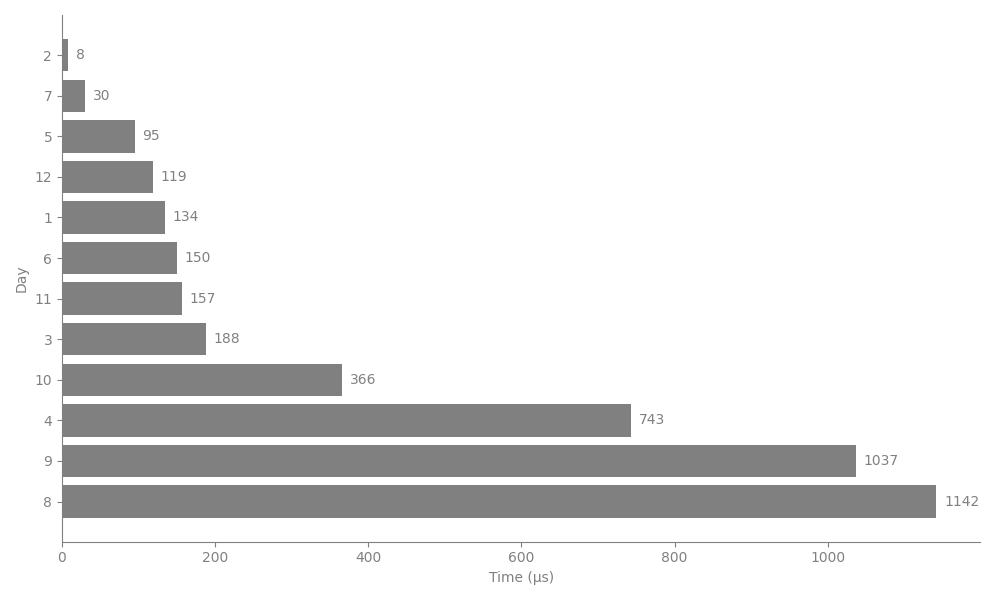
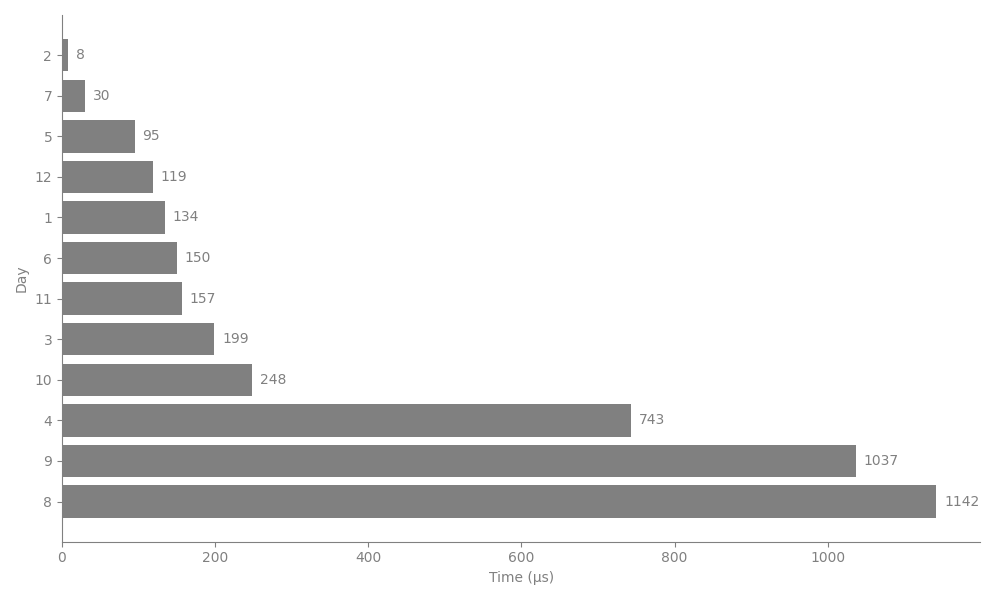
Restyle 25/10 and rebench ~4ms

Changed region(s): [[0.248, 0.6, 0.372, 0.66], [0.186, 0.54, 0.248, 0.6]]

diff --git a/2025/10/aoc10.go b/2025/10/aoc10.go
@@ -18,13 +18,12 @@ import (
 	"math"
 	"math/bits"
 	"os"
-	"slices"
 	"sync"
 	"time"
 	"unsafe"
 )
 
-const MaxSolver = 8 // number of parallel solvers -- sweet spot on M1
+var MaxSolver = 16 // number of parallel solvers -- sweet spot on M1
 
 // use this for dynamic max procs
 // var MaxSolver = runtime.GOMAXPROCS(0)
@@ -34,8 +33,8 @@ func main() {
 
 	var wg sync.WaitGroup // wait group for solvers
 
-	in := make(chan mach, 2*MaxSolver)   // input machines into solvers
-	out := make(chan parts, 2*MaxSolver) // output part results from solvers
+	in := make(chan mach, 4*MaxSolver)   // input machines into solvers
+	out := make(chan parts, 4*MaxSolver) // output part results from solvers
 
 	// each solver processes machines from the input channel for parts 1 and 2
 	solver := func() {
@@ -87,11 +86,18 @@ func part1(flips []int32, light int32) int32 {
 	flips = flips[:len(flips)-1] // remove bounding switch
 
 	// build bitmask BFS table
-	bmasks := slices.Repeat([]int32{math.MaxInt16}, 1<<w)
+	N := 1 << w
+
+	bmasks := make([]int32, N)
+	for i := range N {
+		bmasks[i] = math.MaxInt16
+	}
 	bmasks[0] = 0
 
 	// BFS over bitmasks
-	q := []int32{0}
+	q := make([]int32, 0, N)
+
+	q = append(q, 0)
 	for i := 0; i < len(q); i++ {
 		u := q[i]
 		for _, v := range flips {
@@ -101,12 +107,15 @@ func part1(flips []int32, light int32) int32 {
 				continue
 			}
 
-			bmasks[nxt] = bmasks[u] + 1
+			if bmasks[nxt] = bmasks[u] + 1; nxt == light {
+				return bmasks[light]
+			}
+
 			q = append(q, nxt)
 		}
 	}
 
-	return bmasks[light]
+	panic("unreached")
 }
 
 // Part 2 solves an integer linear system M x = rhs using a row-Hermite Normal Form.
@@ -124,23 +133,23 @@ func part2(flips []int32, jolts []int32) int32 {
 	m := len(jolts) // equations (cols)
 	n := len(flips) // variables (rows)
 
-	// M is the transpose of the usual matrix becaus we perform
+	// M is the transpose of the usual matrix because we perform
 	// row-HNF. Each row corresponds to a variable (flips),
-	M := new(mat)
+	var M mat
 	for i := range n {
 		for j := range m {
 			M[x(i, j)] = (flips[i] >> j) & 1
 		}
 	}
 
-	K := new(ker3)
+	var K ker3
 
 	// row-Hermite Normal Form
-	x, kdim := hnf(K, M, jolts, m, n) // base solution + kernel dimension
+	x, kdim := hnf(&K, &M, jolts, m, n) // base solution + kernel dimension
 
 	// base sum
 	var sumX int32
-	for i := range x {
+	for i := range n {
 		sumX += x[i]
 	}
 
@@ -149,35 +158,35 @@ func part2(flips []int32, jolts []int32) int32 {
 		return sumX
 	}
 
-	v0 := ρ(K[:], 0) // kernel basis vectors
-	sum0 := Σplus(v0)
+	k0 := ρ(K[:], 0) // kernel basis vectors
+	sum0 := Σplus(k0)
 
 	if kdim == 1 {
-		return sumX + min1D(x, v0)
+		return sumX + min1D(x, k0, n)
 	}
 
-	v1 := ρ(K[:], 1) // kernel basis vectors
-	sum1 := Σplus(v1)
+	k1 := ρ(K[:], 1) // kernel basis vectors
+	sum1 := Σplus(k1)
 
 	if sum0 < sum1 {
 		sum0, sum1 = sum1, sum0
-		swap(v0, v1)
+		swap(k0, k1)
 	}
 
 	if kdim == 2 {
-		return sumX + min2D(x, sum0, v0, sum1, v1, n, math.MaxInt16)
+		return sumX + min2D(x, sum0, k0, sum1, k1, n, math.MaxInt16)
 	}
 
-	v2 := ρ(K[:], 2) // kernel basis vectors
-	sum2 := Σplus(v2)
+	k2 := ρ(K[:], 2) // kernel basis vectors
+	sum2 := Σplus(k2)
 
 	if sum0 < sum2 {
 		sum0, sum2 = sum2, sum0
-		swap(v0, v2)
+		swap(k0, k2)
 	}
 
 	// no more than 3 free variables in the input
-	return sumX + min3D(x, sum0, v0, sum1, v1, sum2, v2, n)
+	return sumX + min3D(x, sum0, k0, sum1, k1, sum2, k2, n)
 }
 
 const (
@@ -188,7 +197,6 @@ const (
 // parse input into machines
 func parse(input *bufio.Scanner) iter.Seq[mach] {
 	return func(yield func(mach) bool) {
-
 		for input.Scan() {
 			buf := input.Bytes()
 			fields := bytes.Split(buf, []byte(" "))
@@ -261,30 +269,30 @@ type v16 [16]int32
 
 // min1D finds the minimum of the objective over a 1D integer affine subspace
 // subject to non-negativity and implicit feasibility constraints.
-func min1D(x *v16, v0 *v16) int32 {
+func min1D(x *v16, v0 *v16, n int) int32 {
 	var sum int32
 
-	for i := range v0 {
+	for i := range n {
 		sum += v0[i]
 	}
 
 	if sum > 0 {
 		sum = -sum
 
-		for i := range v0 {
+		for i := range n {
 			v0[i] *= -1
 		}
 	}
 
 	var negi uint16 // negative entries in v0
-	for i := range v0 {
+	for i := range n {
 		if v0[i] < 0 {
 			negi |= 1 << i
 		}
 	}
 
 	i := bits.TrailingZeros16(negi)
-	n, d := x[i], -v0[i] // first negative entry
+	a, b := x[i], -v0[i] // first negative entry
 	negi &= negi - 1     // clear lowest set bit
 
 	for negi != 0 {
@@ -292,14 +300,14 @@ func min1D(x *v16, v0 *v16) int32 {
 
 		v0i, xi := -v0[i], x[i]
 
-		if xi*d < n*v0i {
-			n, d = xi, v0i
+		if a*v0i > b*xi {
+			a, b = xi, v0i
 		}
 
 		negi &= negi - 1
 	}
 
-	return sum * fdiv(n, d)
+	return sum * fdiv(a, b)
 }
 
 // min2D performs a bounded search in a 2D kernel space.
@@ -346,20 +354,19 @@ func min2D(x *v16, sum0 int32, v0 *v16, sum1 int32, v1 *v16, n int, best int32) 
 	sm0 := min0*sum0 + min10*sum1
 	sm1 := min01*sum0 + min1*sum1
 
+	if min(sm0, sm1) >= best {
+		return best
+	}
+
 	if sm1 < sm0 {
-		if sm1 >= best {
-			return best
-		}
 		v0, v1 = v1, v0
 		sum0, sum1 = sum1, sum0
 		min0, min1 = min1, min0
 		min01, min10 = min10, min01
-	} else if sm0 >= best {
-		return best
 	}
 
-	var xx v16 = *x
-	x = &xx // work on a copy of x
+	var xx v16 = *x // working copy
+	x = &xx
 
 	for i := range n {
 		x[i] += min0*v0[i] + min10*v1[i]
@@ -403,31 +410,31 @@ func min2D(x *v16, sum0 int32, v0 *v16, sum1 int32, v1 *v16, n int, best int32) 
 		}
 
 		if negMask != 0 {
-			if negMask&lostMask != 0 {
+			switch {
+			case negMask&lostMask != 0:
 				return best
-			}
-
-			if negMask&addMask != 0 {
+			case negMask&addMask != 0:
 				k0++
 
-				for i := range x {
+				for i := range n {
 					x[i] += v0[i]
 				}
 
 				sum += sum0
-			} else {
+			default:
 				for i := range n {
 					x[i] -= v1[i]
 				}
 
 				sum -= sum1
 			}
+
 			continue
 		}
 
 		// subtract v1 until minimal
+		hasNeg = false
 		for {
-			hasNeg = false
 			for i := range n {
 				x[i] -= v1[i]
 
@@ -436,15 +443,16 @@ func min2D(x *v16, sum0 int32, v0 *v16, sum1 int32, v1 *v16, n int, best int32) 
 				}
 			}
 
-			if hasNeg {
-				// undo subtraction
-				for i := range n {
-					x[i] += v1[i]
-				}
-
-				break
+			if !hasNeg {
+				sum -= sum1
+				continue
 			}
-			sum -= sum1
+
+			for i := range n {
+				x[i] += v1[i] // undo last subtraction
+			}
+
+			break
 		}
 
 		if sum < best {
@@ -466,7 +474,7 @@ func min2D(x *v16, sum0 int32, v0 *v16, sum1 int32, v1 *v16, n int, best int32) 
 func min3D(x *v16, sum0 int32, v0 *v16, sum1 int32, v1 *v16, sum2 int32, v2 *v16, n int) int32 {
 	min0, max0 := fmbounds3D(x, v0, v1, v2, n)
 
-	for i := range x {
+	for i := range n {
 		x[i] += min0 * v0[i]
 	}
 
@@ -476,7 +484,7 @@ func min3D(x *v16, sum0 int32, v0 *v16, sum1 int32, v1 *v16, sum2 int32, v2 *v16
 	best := sum + min2D(&xx, sum1, v1, sum2, v2, n, math.MaxInt16)
 
 	for k := min0 + 1; k <= max0; k++ {
-		for i := range x {
+		for i := range n {
 			x[i] += v0[i]
 		}
 		sum += sum0
@@ -631,6 +639,7 @@ func fmbounds2D(x, v0, v1 *v16, n int) int32 {
 			}
 		}
 	}
+
 	return min0
 }
 

diff --git a/2025/barchart.py b/2025/barchart.py
@@ -2,7 +2,7 @@ import matplotlib.pyplot as plt
 
 # Data
 days = ["2", "7", "5", "12", "1", "6", "11", "3", "10", "4", "9", "8"]
-times = [8, 30, 95, 119, 134, 150, 157, 188, 366, 743, 1037, 1142]
+times = [8, 30, 95, 119, 134, 150, 157, 199, 248, 743, 1037, 1142]
 
 # Colors and text color
 bar_color = "#808080"  # medium gray bars

diff --git a/2025/README.md b/2025/README.md
@@ -62,20 +62,21 @@ This repository contains optimized solutions for Advent of Code 2025, implemente
   <img src="./images/barchart.png" alt="The barchart of the table below" width="100%" />
 </div>
 
+| Day                                | Time (μs) | % of Total  |
 | ---------------------------------- | --------: | ----------: |
 | [**2**](#day-2-gift-shop-)         |         8 |       0.20% |
-| [7](#day-7-laboratories-)          |        30 |       0.73% |
-| [5](#day-5-cafeteria-)             |        95 |       2.32% |
-| [12](#day-12-christmas-tree-farm-) |       119 |       2.90% |
-| [1](#day-1-secret-entrance-)       |       134 |       3.27% |
-| [6](#day-6-trash-compactor-)       |       150 |       3.66% |
-| [11](#day-11-reactor-)             |       157 |       3.83% |
-| [3](#day-3-lobby-)                 |       188 |       4.59% |
-| [10](#day-10-factory-)             |       366 |       8.93% |
-| [4](#day-4-printing-department-)   |       743 |      18.13% |
-| [9](#day-9-movie-theater-)         |     1,037 |      25.30% |
-| [8](#day-8-playground-)            |     1,130 |      27.57% |
-| **Total**                          | **4,097** | **100.00%** |
+| [7](#day-7-laboratories-)          |        30 |       0.74% |
+| [5](#day-5-cafeteria-)             |        95 |       2.34% |
+| [12](#day-12-christmas-tree-farm-) |       119 |       2.93% |
+| [1](#day-1-secret-entrance-)       |       134 |       3.30% |
+| [6](#day-6-trash-compactor-)       |       150 |       3.69% |
+| [11](#day-11-reactor-)             |       157 |       3.87% |
+| [3](#day-3-lobby-)                 |       199 |       4.90% |
+| [10](#day-10-factory-)             |       248 |       6.11% |
+| [4](#day-4-printing-department-)   |       743 |      18.30% |
+| [9](#day-9-movie-theater-)         |     1,037 |      25.55% |
+| [8](#day-8-playground-)            |     1,142 |      28.13% |
+| **Total**                          | **4,062** | **100.00%** |
 
 fastest of 100 runs for part1&2 in μs - mbair M1/16GB - darwin 24.6.0 - go1.25.3 darwin/arm64 with greentea GC - 2025-12
 
